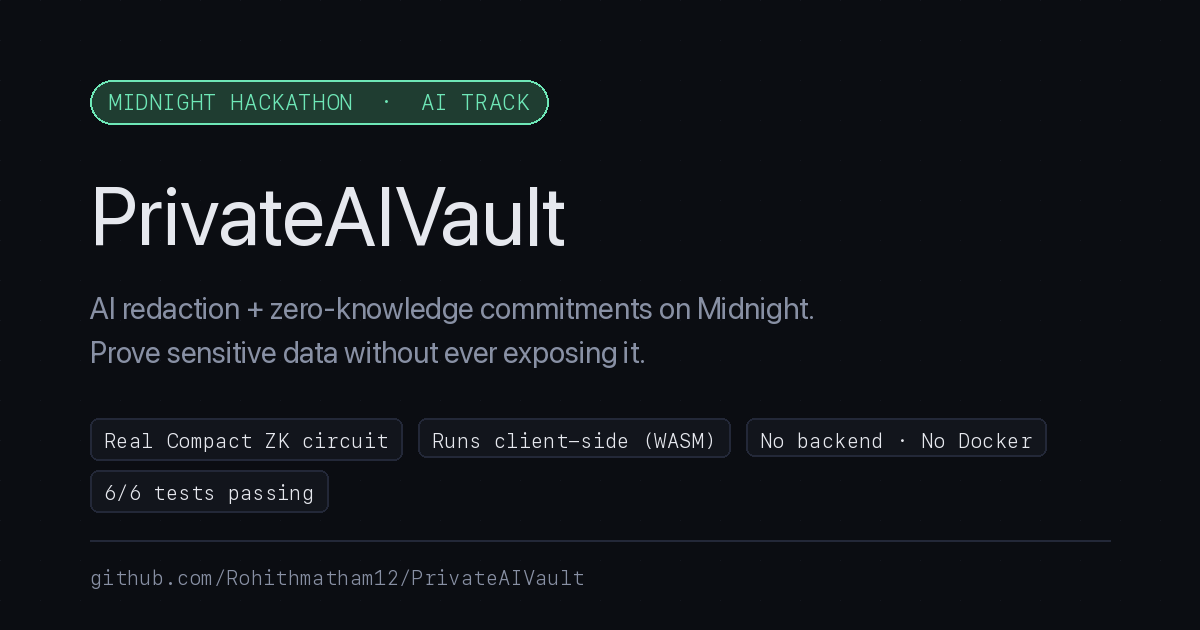
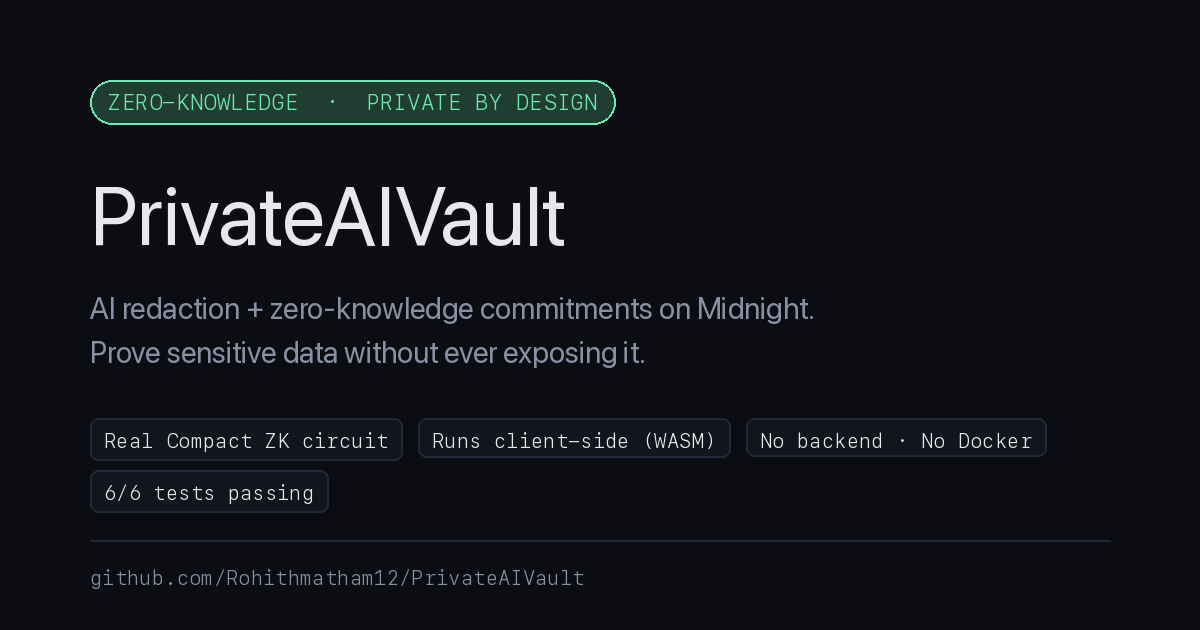
Remove hackathon branding, remove em dashes from all product copy
Deadline passed; this is now developed as a standalone product, not a
hackathon submission. Dropped all "Midnight Hackathon / MLH / AI
Track" references from README, package.json, landing page, and both
UI variants, and regenerated the OG share image without the hackathon
badge.

Also rewrote every em-dash-punctuated sentence across the landing
page and app UI into plain periods/commas/colons.

Changed region(s): [[0.0925, 0.1206, 0.5242, 0.2111]]

diff --git a/landing/index.html b/landing/index.html
@@ -3,17 +3,17 @@
 <head>
 <meta charset="utf-8" />
 <meta name="viewport" content="width=device-width, initial-scale=1" />
-<title>PrivateAIVault — Prove sensitive data without exposing it</title>
+<title>PrivateAIVault: prove sensitive data without exposing it</title>
 <meta name="description" content="AI redaction + Midnight zero-knowledge commitments. Prove a sensitive record exists and is unaltered, without ever storing or exposing the data itself. Runs entirely in your browser." />
 
 <meta property="og:type" content="website" />
-<meta property="og:title" content="PrivateAIVault — Prove sensitive data without exposing it" />
-<meta property="og:description" content="AI redaction + Midnight zero-knowledge commitments. A real compiled ZK circuit running client-side — no backend, no Docker." />
+<meta property="og:title" content="PrivateAIVault: prove sensitive data without exposing it" />
+<meta property="og:description" content="AI redaction + Midnight zero-knowledge commitments. A real compiled ZK circuit running client-side, with no backend and no Docker." />
 <meta property="og:image" content="https://rohithmatham12.github.io/PrivateAIVault/og-image.png" />
 <meta property="og:url" content="https://rohithmatham12.github.io/PrivateAIVault/" />
 
 <meta name="twitter:card" content="summary_large_image" />
-<meta name="twitter:title" content="PrivateAIVault — Prove sensitive data without exposing it" />
+<meta name="twitter:title" content="PrivateAIVault: prove sensitive data without exposing it" />
 <meta name="twitter:description" content="AI redaction + Midnight zero-knowledge commitments, running entirely client-side." />
 <meta name="twitter:image" content="https://rohithmatham12.github.io/PrivateAIVault/og-image.png" />
 
@@ -37,11 +37,11 @@
 
 <header class="hero" id="top">
   <div class="wrap">
-    <span class="eyebrow">Midnight Hackathon · AI Track</span>
-    <h1>Prove sensitive data is real —<br /><span class="accent">without ever exposing it.</span></h1>
+    <span class="eyebrow">Zero-knowledge · Private by design</span>
+    <h1>Prove sensitive data is real,<br /><span class="accent">without ever exposing it.</span></h1>
     <p class="hero-sub">
       PrivateAIVault redacts sensitive records with AI, then commits only a cryptographic hash
-      to a zero-knowledge smart contract on Midnight. The raw data never leaves your browser —
+      to a zero-knowledge smart contract on Midnight. The raw data never leaves your browser:
       not to a server, not to the chain, not to us.
     </p>
     <div class="hero-ctas">
@@ -62,23 +62,23 @@
     <div class="section-head">
       <div class="section-tag">How it works</div>
       <h2>Three steps, all provable, none of them exposing your data</h2>
-      <p>Every step below is a real execution — an actual LLM call, an actual SHA-256 hash, an actual compiled zero-knowledge circuit. Nothing here is simulated for the demo.</p>
+      <p>Every step below is a real execution: an actual LLM call, an actual SHA-256 hash, an actual compiled zero-knowledge circuit. Nothing here is simulated for the demo.</p>
     </div>
     <div class="steps">
       <div class="step-card">
         <div class="step-num">1</div>
         <h3>AI redaction</h3>
-        <p>An LLM scans the raw record and strips names, SSNs, emails, phone numbers, and medical/financial identifiers — producing a version that's safe to display.</p>
+        <p>An LLM scans the raw record and strips names, SSNs, emails, phone numbers, and medical/financial identifiers, producing a version that's safe to display.</p>
       </div>
       <div class="step-card">
         <div class="step-num">2</div>
         <h3>Commit a hash, not the data</h3>
-        <p>A SHA-256 commitment of the original record is computed locally. Only that 32-byte hash is ever sent to the smart contract — the record itself never is.</p>
+        <p>A SHA-256 commitment of the original record is computed locally. Only that 32-byte hash is ever sent to the smart contract. The record itself never is.</p>
       </div>
       <div class="step-card">
         <div class="step-num">3</div>
         <h3>Verify without revealing</h3>
-        <p>Anyone holding a candidate original can recompute its hash and check it against the on-chain commitment — proving a match without exposing the candidate to anyone.</p>
+        <p>Anyone holding a candidate original can recompute its hash and check it against the on-chain commitment, proving a match without exposing the candidate to anyone.</p>
       </div>
     </div>
   </div>
@@ -89,7 +89,7 @@
     <div class="section-head">
       <div class="section-tag">Who this is for</div>
       <h2>Anywhere confidentiality and an audit trail are both non-negotiable</h2>
-      <p>The same pattern — prove a record exists and is unaltered, without storing or exposing it — applies wherever sensitive text meets a compliance requirement.</p>
+      <p>The same pattern (prove a record exists and is unaltered, without storing or exposing it) applies wherever sensitive text meets a compliance requirement.</p>
     </div>
     <div class="grid-cards">
       <div class="use-card">
@@ -120,7 +120,7 @@
       <div class="use-card">
         <svg class="icon" viewBox="0 0 24 24" fill="none" stroke="currentColor" stroke-width="1.75" stroke-linecap="round" stroke-linejoin="round"><path d="M12 2 3 6v6c0 5 3.8 8.7 9 10 5.2-1.3 9-5 9-10V6z"/><path d="m9 12 2 2 4-4"/></svg>
         <h3>Any regulated free text</h3>
-        <p>AI redaction makes this practical for real-world documents — medical notes, intake forms — not just pre-structured data.</p>
+        <p>AI redaction makes this practical for real-world documents such as medical notes and intake forms, not just pre-structured data.</p>
       </div>
     </div>
   </div>
@@ -145,7 +145,7 @@
                                                           ▼
                                           ┌──────────────────────────────┐
                                           │  Midnight smart contract      │
-                                          │  (Compact) — commitRecord     │
+                                          │  (Compact): commitRecord      │
                                           │  runs as <span class="hl">real compiled WASM</span>   │
                                           │  in this tab, discloses ONLY  │
                                           │  the hash                     │
@@ -168,7 +168,7 @@
 
 <footer>
   <div class="wrap">
-    <span>Built for the Midnight Hackathon (MLH), AI Track — by Rohith Matam</span>
+    <span>PrivateAIVault, by Rohith Matam</span>
     <div class="footer-links">
       <a href="./app/">Live app</a>
       <a href="https://github.com/Rohithmatham12/PrivateAIVault" target="_blank" rel="noopener">GitHub</a>

diff --git a/web/index.html b/web/index.html
@@ -9,16 +9,16 @@
 <body>
   <header>
     <h1>PrivateAIVault</h1>
-    <p class="subtitle">AI redaction + Midnight zero-knowledge commitments — sensitive data processed and provably committed, never exposed.</p>
-    <p class="badge">Midnight Hackathon (MLH) · AI Track</p>
+    <p class="subtitle">AI redaction + Midnight zero-knowledge commitments. Sensitive data is processed and provably committed, never exposed.</p>
+    <p class="badge">Zero-knowledge · Private by design</p>
   </header>
 
-  <p class="runtime-note">Runs entirely in this browser tab — the real compiled Compact circuit executes client-side via WebAssembly. No server, no Docker, nothing to keep running.</p>
+  <p class="runtime-note">Runs entirely in this browser tab. The real compiled Compact circuit executes client-side via WebAssembly, with no server, no Docker, and nothing to keep running.</p>
 
   <main>
     <section class="panel" id="step1">
       <div class="step-label">Step 1 · Raw sensitive record</div>
-      <p class="hint">This text is processed locally in your browser. It is <strong>never</strong> sent to the Midnight contract or to any server of ours — only its commitment is.</p>
+      <p class="hint">This text is processed locally in your browser. It is <strong>never</strong> sent to the Midnight contract or to any server of ours. Only its commitment is.</p>
       <textarea id="rawText" rows="3">Patient: Jane Doe, DOB 1990-04-12, SSN [phone redacted], contact [email redacted] or [phone redacted], diagnosed with condition X on 2026-06-01.</textarea>
       <p class="hint">Optional: paste a <a href="https://console.groq.com/keys" target="_blank" rel="noopener">Groq API key</a> for real LLM redaction. Left blank, a regex-based redactor runs instead (fully offline, no key needed). The key is used only for a direct browser→Groq call and is never stored or sent anywhere else.</p>
       <input type="password" id="groqKey" placeholder="gsk_... (optional)" autocomplete="off" />
@@ -33,7 +33,7 @@
         <span class="mono-label">SHA-256 commitment</span>
         <code id="commitmentHex"></code>
       </div>
-      <p class="hint">This hash — not the raw text above — is the only value about to be sent to the Midnight smart contract.</p>
+      <p class="hint">This hash, not the raw text above, is the only value about to be sent to the Midnight smart contract.</p>
       <button id="commitBtn">Commit to Midnight contract →</button>
     </section>
 
@@ -45,7 +45,7 @@
 
     <section class="panel" id="step4">
       <div class="step-label">Step 4 · Verify a candidate record</div>
-      <p class="hint">Anyone holding what they believe is the true original can check it against the commitment — without exposing their candidate to anyone else.</p>
+      <p class="hint">Anyone holding what they believe is the true original can check it against the commitment, without exposing their candidate to anyone else.</p>
       <textarea id="candidateText" rows="2" placeholder="Paste a candidate original record to verify..."></textarea>
       <button id="verifyBtn">Verify against commitment</button>
       <div class="output" id="verifyResult"></div>
@@ -65,7 +65,7 @@
                                                           ▼
                                           ┌──────────────────────────────┐
                                           │  Midnight smart contract      │
-                                          │  (Compact) — commitRecord     │
+                                          │  (Compact): commitRecord      │
                                           │  runs as real compiled WASM   │
                                           │  in this tab, discloses ONLY  │
                                           │  the hash                     │

diff --git a/public/index.html b/public/index.html
@@ -9,14 +9,14 @@
 <body>
   <header>
     <h1>PrivateAIVault</h1>
-    <p class="subtitle">AI redaction + Midnight zero-knowledge commitments — sensitive data processed and provably committed, never exposed.</p>
-    <p class="badge">Midnight Hackathon (MLH) · AI Track</p>
+    <p class="subtitle">AI redaction + Midnight zero-knowledge commitments. Sensitive data is processed and provably committed, never exposed.</p>
+    <p class="badge">Zero-knowledge · Private by design</p>
   </header>
 
   <main>
     <section class="panel" id="step1">
       <div class="step-label">Step 1 · Raw sensitive record</div>
-      <p class="hint">This text is processed locally by the AI redaction step. It is <strong>never</strong> sent to the Midnight contract — only its commitment is.</p>
+      <p class="hint">This text is processed locally by the AI redaction step. It is <strong>never</strong> sent to the Midnight contract. Only its commitment is.</p>
       <textarea id="rawText" rows="3">Patient: Jane Doe, DOB 1990-04-12, SSN [phone redacted], contact [email redacted] or [phone redacted], diagnosed with condition X on 2026-06-01.</textarea>
       <button id="redactBtn">Redact with AI →</button>
     </section>
@@ -29,7 +29,7 @@
         <span class="mono-label">SHA-256 commitment</span>
         <code id="commitmentHex"></code>
       </div>
-      <p class="hint">This hash — not the raw text above — is the only value about to be sent to the Midnight smart contract.</p>
+      <p class="hint">This hash, not the raw text above, is the only value about to be sent to the Midnight smart contract.</p>
       <button id="commitBtn">Commit to Midnight contract →</button>
     </section>
 
@@ -41,7 +41,7 @@
 
     <section class="panel" id="step4">
       <div class="step-label">Step 4 · Verify a candidate record</div>
-      <p class="hint">Anyone holding what they believe is the true original can check it against the on-chain commitment — without exposing their candidate to anyone else.</p>
+      <p class="hint">Anyone holding what they believe is the true original can check it against the on-chain commitment, without exposing their candidate to anyone else.</p>
       <textarea id="candidateText" rows="2" placeholder="Paste a candidate original record to verify..."></textarea>
       <button id="verifyBtn">Verify against commitment</button>
       <div class="output" id="verifyResult"></div>
@@ -61,7 +61,7 @@
                                                           ▼
                                           ┌──────────────────────────────┐
                                           │  Midnight smart contract      │
-                                          │  (Compact) — commitRecord     │
+                                          │  (Compact): commitRecord      │
                                           │  discloses ONLY the hash      │
                                           │  to the public ledger         │
                                           └──────────────────────────────┘

diff --git a/public/app.js b/public/app.js
@@ -18,7 +18,7 @@ function renderLedger(ledger) {
   $("ledgerGrid").innerHTML = `
     <div class="ledger-item"><span class="k">State</span><span class="v">${ledger.state}</span></div>
     <div class="ledger-item"><span class="k">Redacted spans</span><span class="v">${ledger.redactedSpanCount}</span></div>
-    <div class="ledger-item"><span class="k">Commitment</span><span class="v">${ledger.commitment || "—"}</span></div>
+    <div class="ledger-item"><span class="k">Commitment</span><span class="v">${ledger.commitment || "none"}</span></div>
     <div class="ledger-item"><span class="k">Owner (pubkey)</span><span class="v">${ledger.owner}</span></div>
   `;
 }
@@ -64,7 +64,7 @@ $("commitBtn").addEventListener("click", async () => {
     $("step3").hidden = false;
     renderLedger(ledger);
     $("commitSuccess").textContent =
-      "Committed. This is a real execution of the compiled Compact circuit — the raw record above was never sent.";
+      "Committed. This is a real execution of the compiled Compact circuit. The raw record above was never sent.";
     $("step3").scrollIntoView({ behavior: "smooth", block: "nearest" });
   } catch (err) {
     $("commitSuccess").textContent = "";

diff --git a/web/src/main.js b/web/src/main.js
@@ -17,7 +17,7 @@ function renderLedger(ledger) {
   $("ledgerGrid").innerHTML = `
     <div class="ledger-item"><span class="k">State</span><span class="v">${ledger.state}</span></div>
     <div class="ledger-item"><span class="k">Redacted spans</span><span class="v">${ledger.redactedSpanCount}</span></div>
-    <div class="ledger-item"><span class="k">Commitment</span><span class="v">${ledger.commitment || "—"}</span></div>
+    <div class="ledger-item"><span class="k">Commitment</span><span class="v">${ledger.commitment || "none"}</span></div>
     <div class="ledger-item"><span class="k">Owner (pubkey)</span><span class="v">${ledger.owner}</span></div>
   `;
 }
@@ -59,7 +59,7 @@ $("commitBtn").addEventListener("click", () => {
     $("step3").hidden = false;
     renderLedger(serializeLedger(ledger));
     $("commitSuccess").textContent =
-      "Committed. This is a real execution of the compiled Compact circuit, running in this browser tab — the raw record above was never sent anywhere.";
+      "Committed. This is a real execution of the compiled Compact circuit, running in this browser tab. The raw record above was never sent anywhere.";
     $("step3").scrollIntoView({ behavior: "smooth", block: "nearest" });
   } catch (err) {
     $("commitSuccess").textContent = "";

diff --git a/README.md b/README.md
@@ -1,7 +1,5 @@
 # PrivateAIVault
 
-Built for the [Midnight Hackathon](https://midnight-hackathon.devpost.com) (MLH) -- AI Track.
-
 **AI applications that process sensitive user data without ever exposing the underlying information.**
 
 ![state](https://img.shields.io/badge/status-working%20end--to--end-6ee7b7)